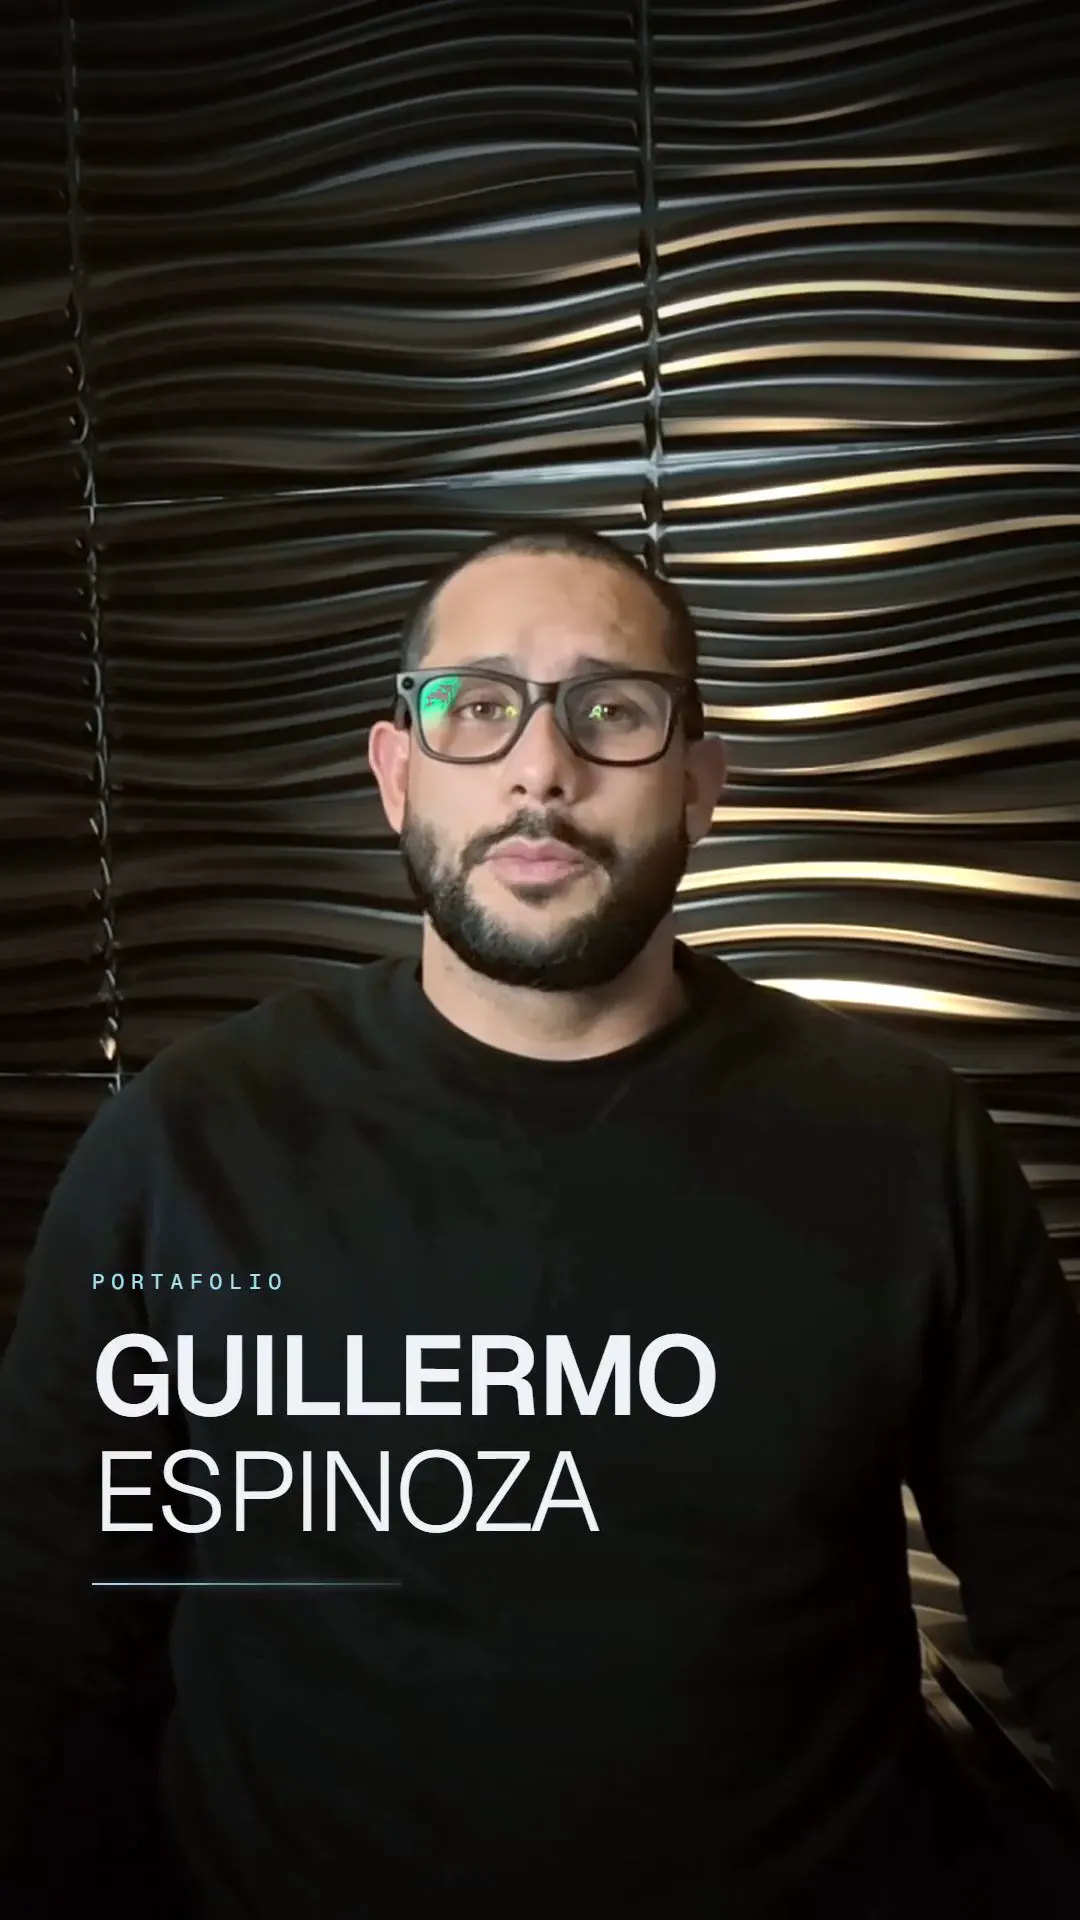
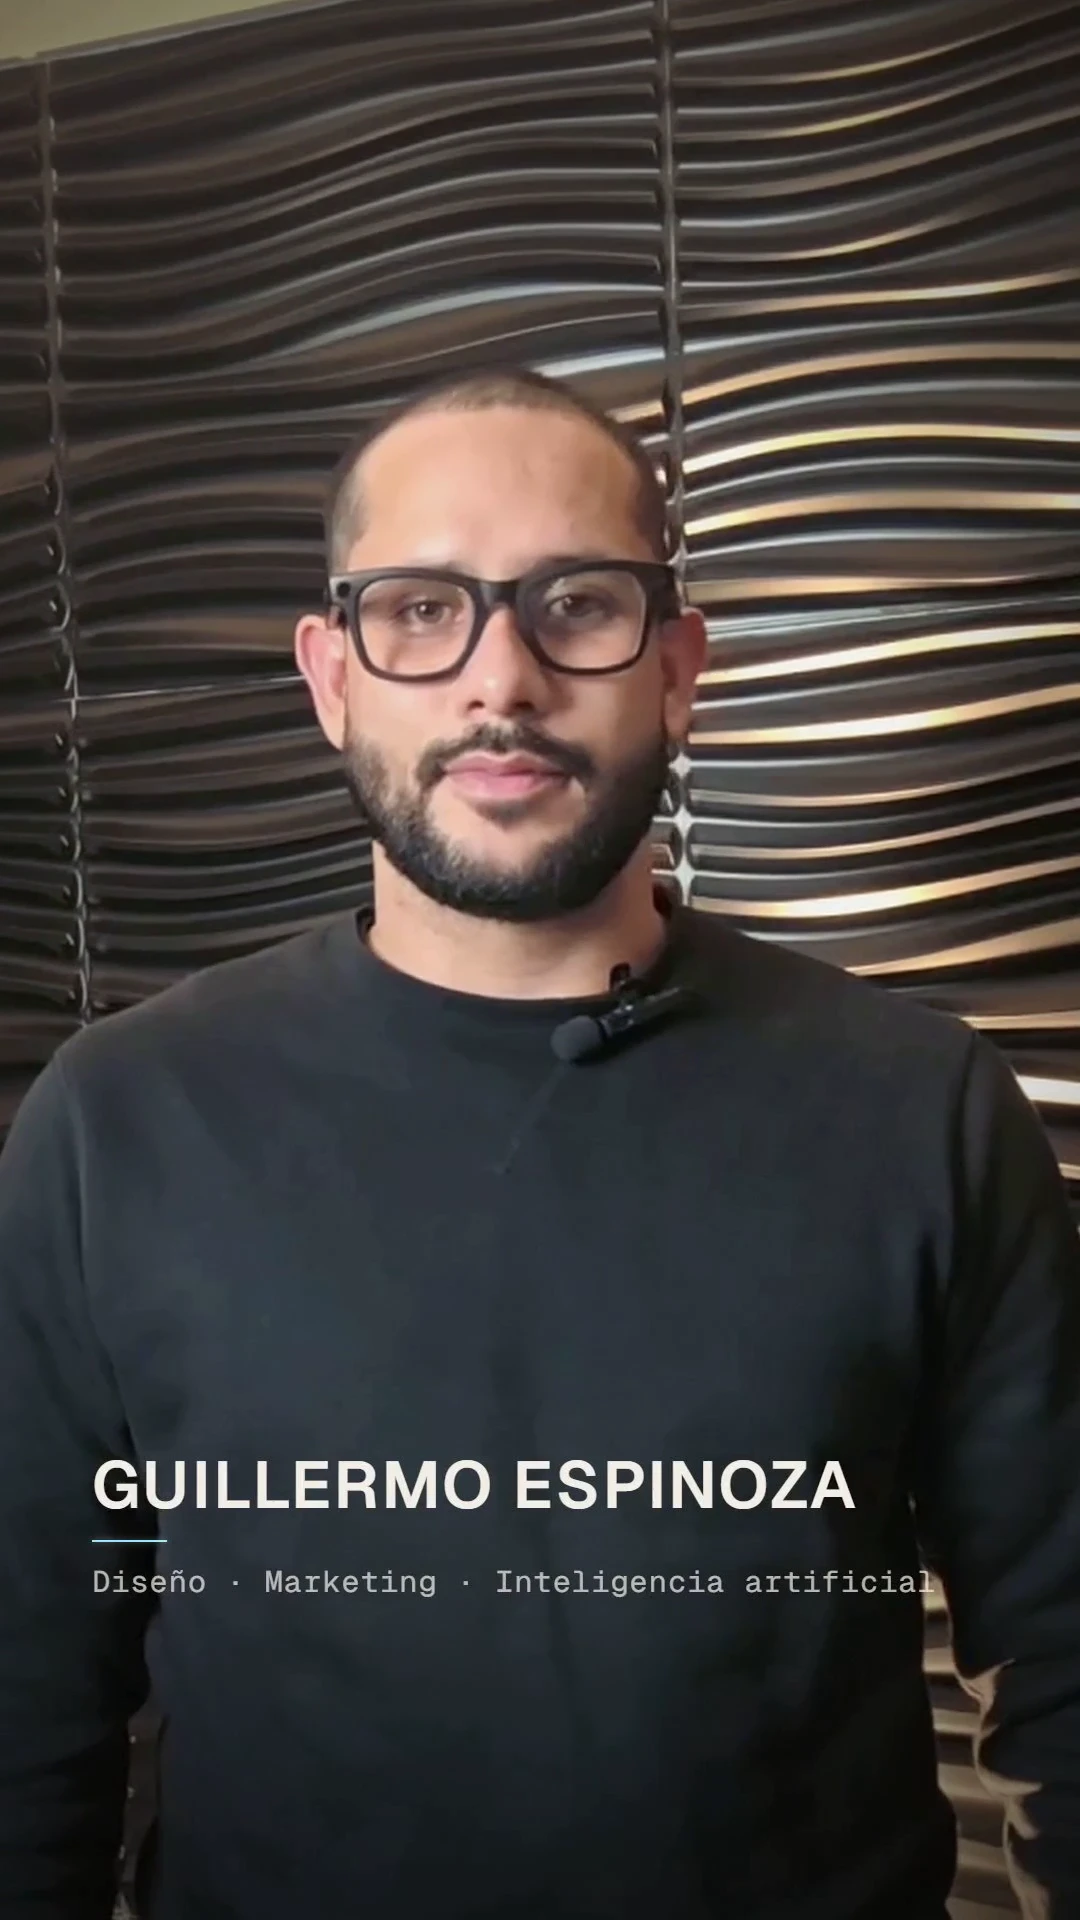
Use end-frame with name lower third as presentation cover
Claude-Session: https://claude.ai/code/session_01Bs2BwWnrzGP17kdzBah61n

diff --git a/index.html b/index.html
@@ -164,7 +164,7 @@
           <span class="duration" data-duration-for="aboutVideo">01:57</span>
         </figcaption>
         <div class="reel-frame" data-state="idle">
-          <video id="aboutVideo" src="assets/videos/presentacion.mp4" poster="assets/posters/presentacion.webp" playsinline preload="none" aria-label="Presentación de Guillermo Espinoza: cómo trabajo"></video>
+          <video id="aboutVideo" src="assets/videos/presentacion.mp4" poster="assets/posters/presentacion.webp?v=2" playsinline preload="none" aria-label="Presentación de Guillermo Espinoza: cómo trabajo"></video>
           <button class="reel-cta" type="button">
             <svg class="icon" aria-hidden="true"><use href="#i-play"/></svg>
             <span>Ver presentación</span>
